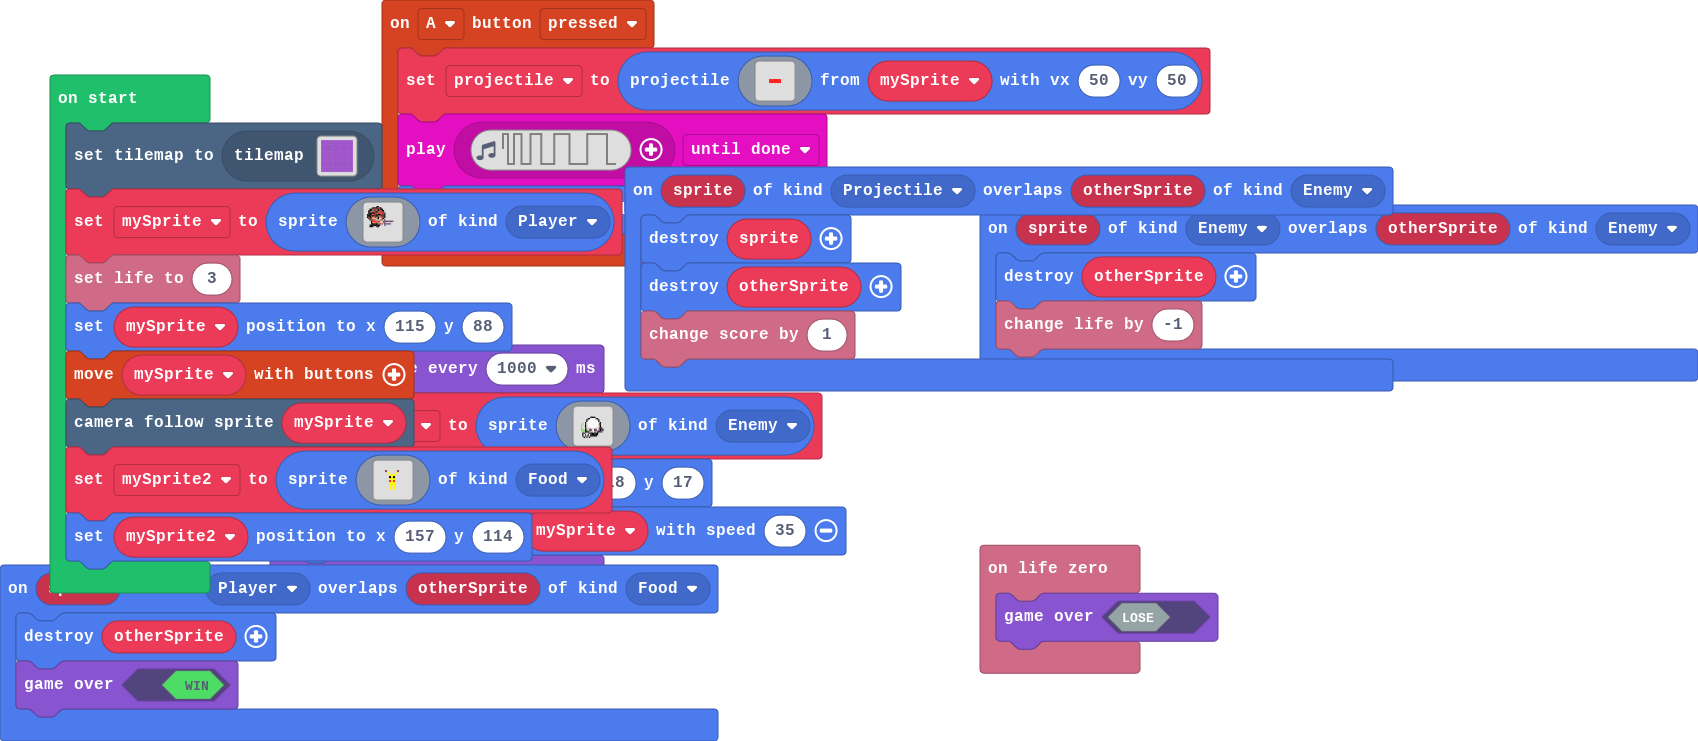
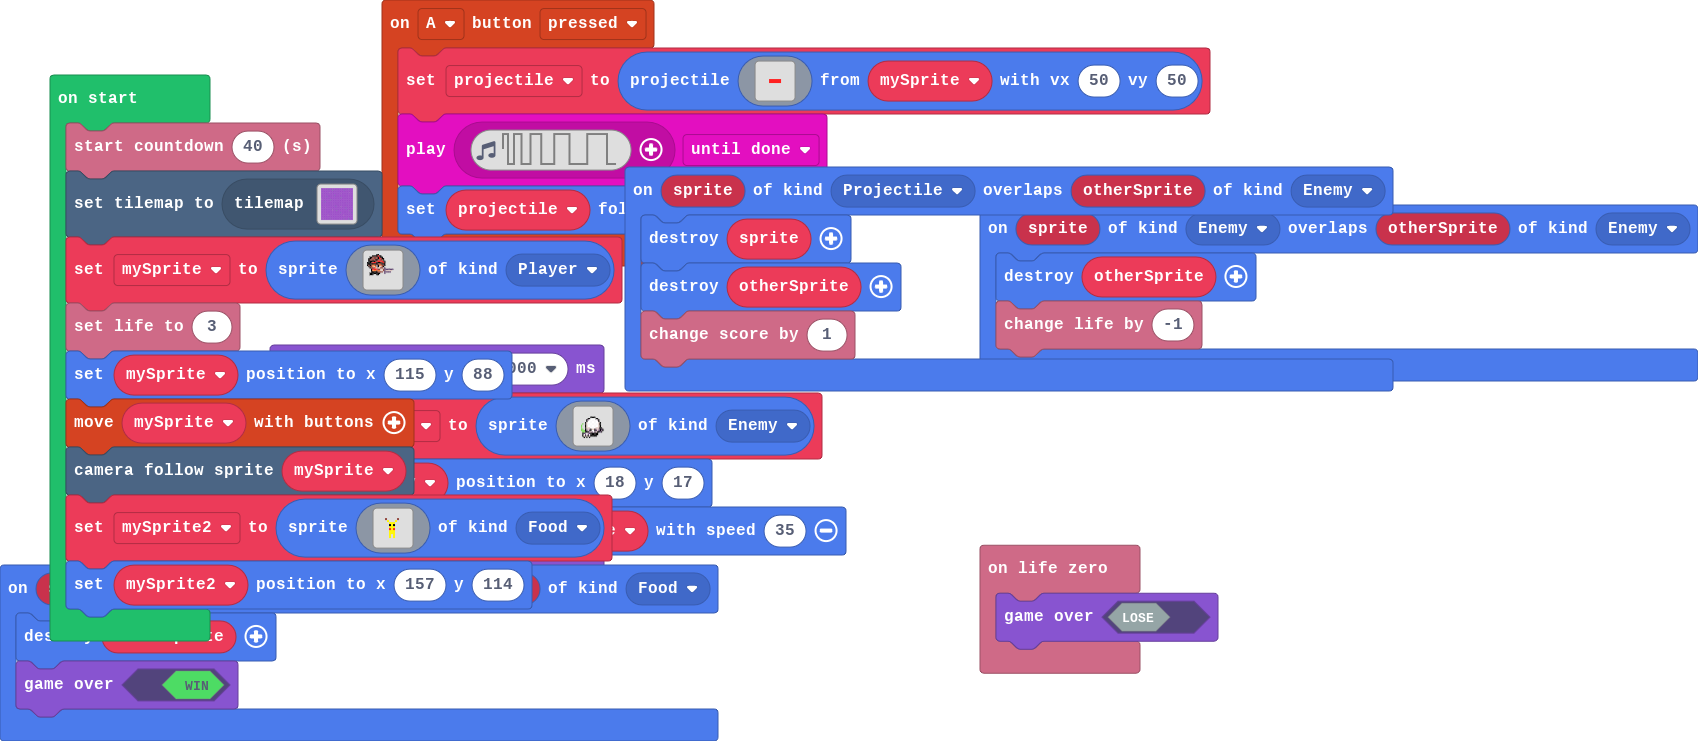
A timer for forty seconds

Changed region(s): [[0.0312, 0.1552, 0.3746, 0.8691]]

diff --git a/main.ts b/main.ts
@@ -39,6 +39,7 @@ sprites.onOverlap(SpriteKind.Projectile, SpriteKind.Enemy, function (sprite, oth
 let myEnemy: Sprite = null
 let projectile: Sprite = null
 let mySprite: Sprite = null
+info.startCountdown(40)
 tiles.setCurrentTilemap(tilemap`level2`)
 mySprite = sprites.create(img`
     .......ff...............
